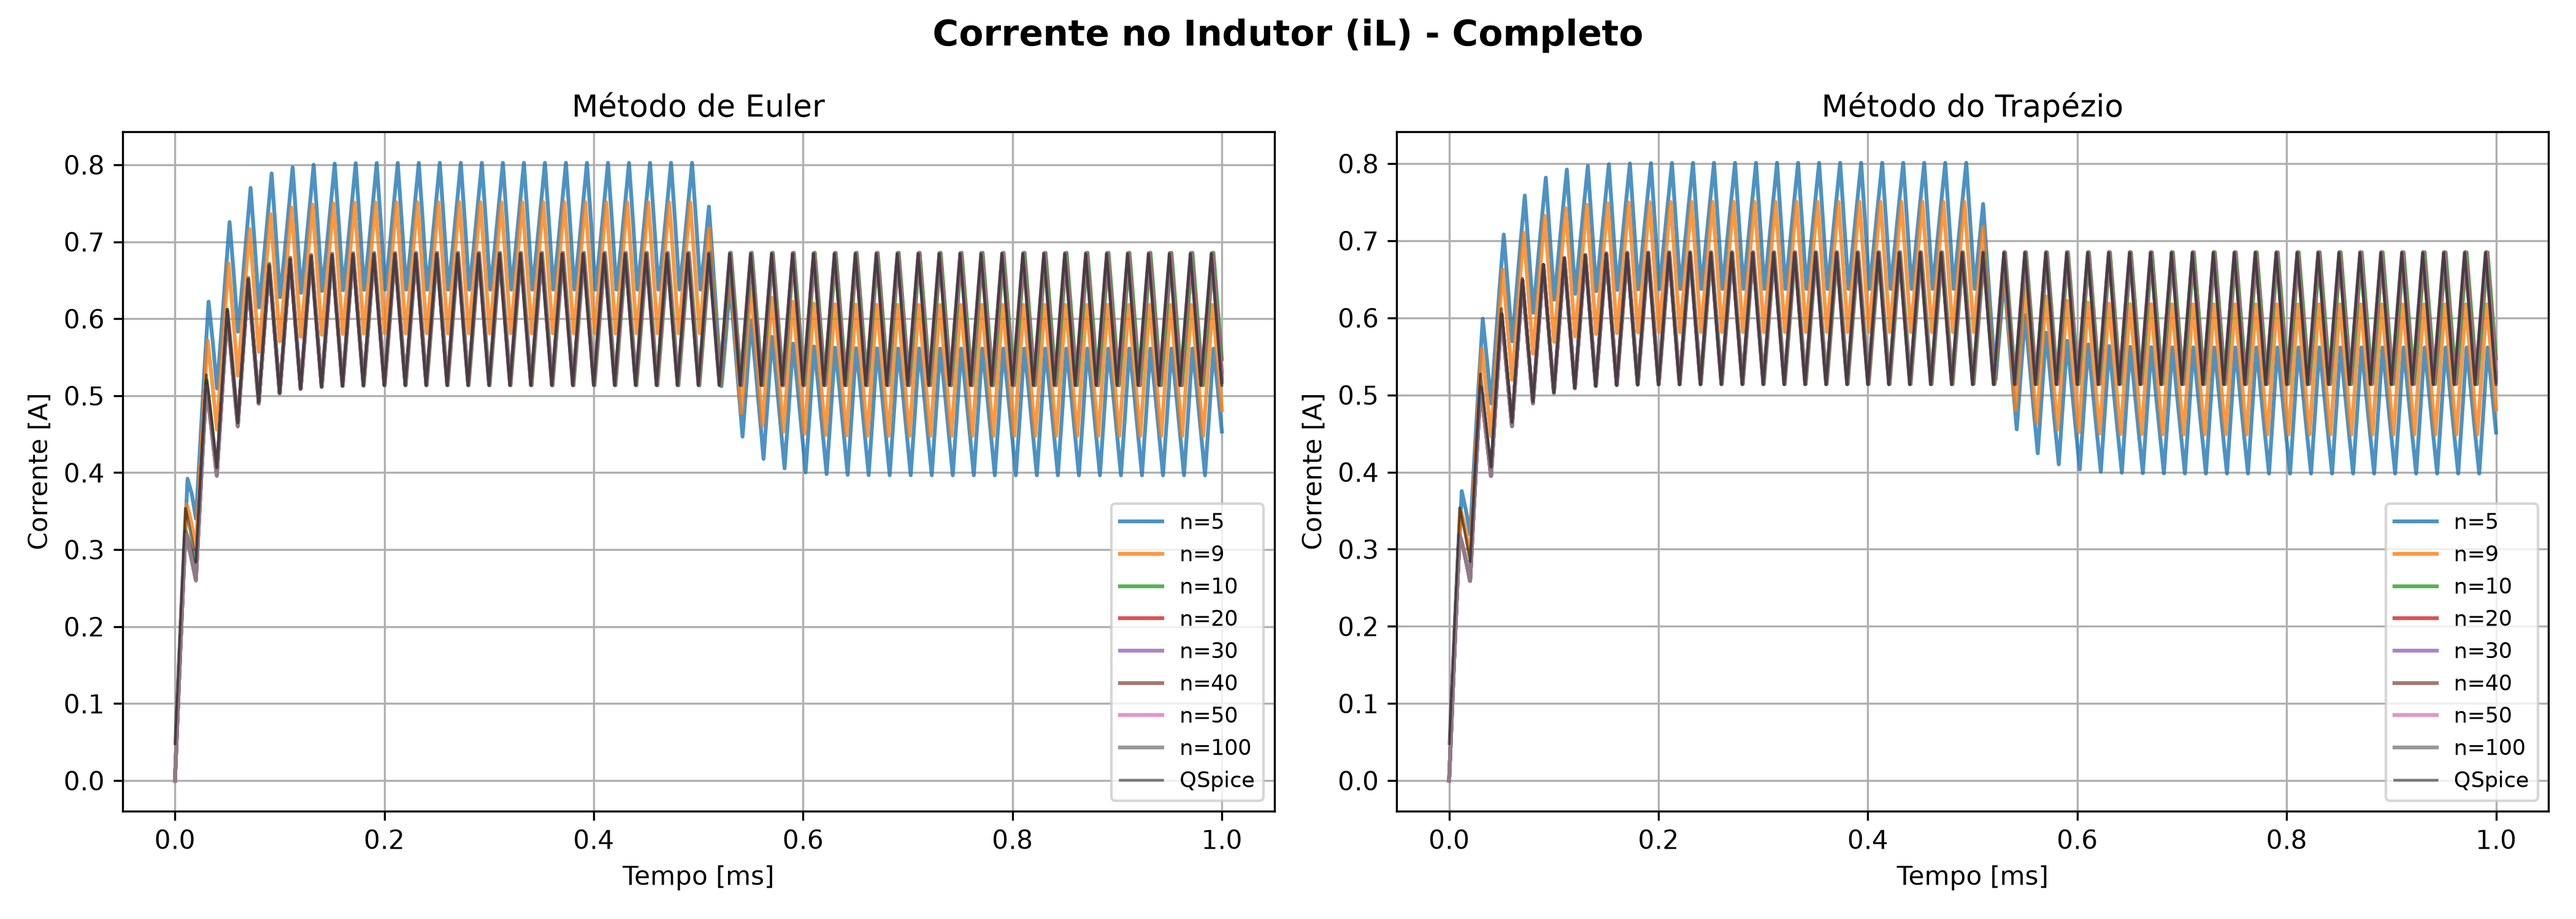
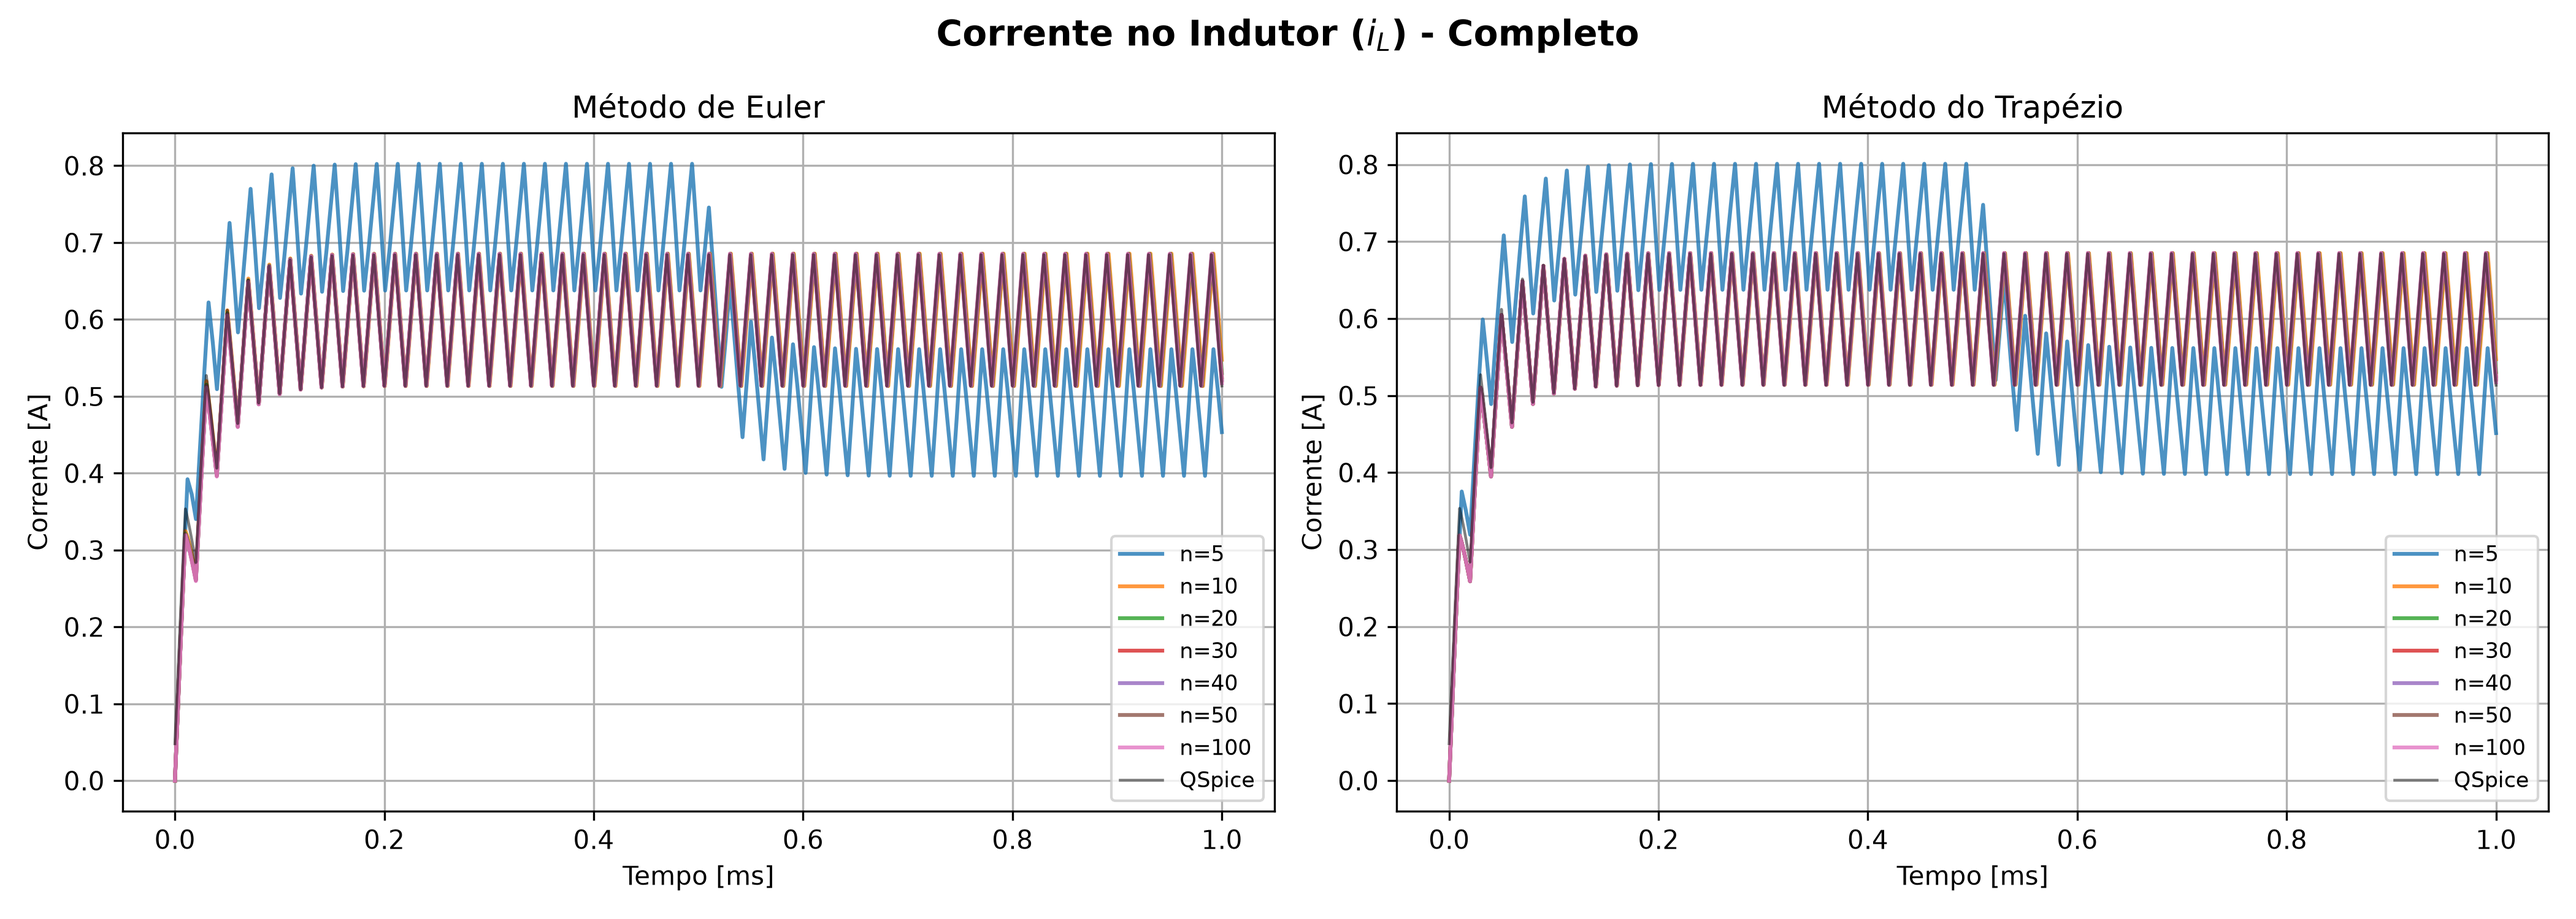
feat: imagem em regime permanente, transitorio e imagem completa foram geradas

diff --git a/ValEquacoesDiferenciaisBuck/main.py b/ValEquacoesDiferenciaisBuck/main.py
@@ -1,6 +1,8 @@
 import numpy as np
 import matplotlib.pyplot as plt
 
+DPI = 500
+
 # Dentro do arquivo buck.csv tenho o resultado de uma simulação 
 # feita com os seguintes parametros:
 # .tran 0 1m 0 20n
@@ -74,13 +76,13 @@ def buck_trapezium_discretization(n):
     return t, iL, vC
 
 def main():
+    DPI = 300 # Definindo a resolução padrão para salvar as imagens
+
     # ==========================================================
     # IMAGENS COMPLETAS (Todo o intervalo de simulação)
     # ==========================================================
-    
-    # --- IMAGEM 1: CORRENTE COMPLETA ---
     fig_iL, (ax_iL_eul, ax_iL_trap) = plt.subplots(1, 2, figsize=(14, 5))
-    fig_iL.suptitle('Corrente no Indutor (iL) - Completo', fontsize=14, fontweight='bold')
+    fig_iL.suptitle(r'Corrente no Indutor ($i_L$) - Completo', fontsize=14, fontweight='bold')
     
     ax_iL_eul.set_title('Método de Euler')
     ax_iL_eul.set_ylabel('Corrente [A]')
@@ -92,9 +94,8 @@ def main():
     ax_iL_trap.set_xlabel('Tempo [ms]')
     ax_iL_trap.grid(True)
 
-    # --- IMAGEM 2: TENSÃO COMPLETA ---
     fig_vC, (ax_vC_eul, ax_vC_trap) = plt.subplots(1, 2, figsize=(14, 5))
-    fig_vC.suptitle('Tensão no Capacitor (vC) - Completo', fontsize=14, fontweight='bold')
+    fig_vC.suptitle(r'Tensão no Capacitor ($v_C$) - Completo', fontsize=14, fontweight='bold')
     
     ax_vC_eul.set_title('Método de Euler')
     ax_vC_eul.set_ylabel('Tensão [V]')
@@ -108,13 +109,10 @@ def main():
 
 
     # ==========================================================
-    # IMAGENS COM ZOOM (0.2ms a 0.225ms)
+    # IMAGENS REGIME PERMANENTE (Zoom)
     # ==========================================================
-    
-    # --- IMAGEM 3: CORRENTE COM ZOOM ---
     fig_iL_z, (ax_iL_eul_z, ax_iL_trap_z) = plt.subplots(1, 2, figsize=(14, 5))
-    fig_iL_z.suptitle('Corrente (iL) - ZOOM (0.2ms a 0.225ms)', fontsize=14, fontweight='bold')
-    
+    fig_iL_z.suptitle(r'Corrente no Indutor ($i_L$) - Regime Permanente (0.2ms a 0.225ms)', fontsize=14, fontweight='bold')
     ax_iL_eul_z.set_title('Método de Euler (Zoom)')
     ax_iL_eul_z.set_ylabel('Corrente [A]')
     ax_iL_eul_z.set_xlabel('Tempo [ms]')
@@ -127,10 +125,8 @@ def main():
     ax_iL_trap_z.grid(True)
     ax_iL_trap_z.set_xlim(0.2, 0.225)
 
-    # --- IMAGEM 4: TENSÃO COM ZOOM ---
     fig_vC_z, (ax_vC_eul_z, ax_vC_trap_z) = plt.subplots(1, 2, figsize=(14, 5))
-    fig_vC_z.suptitle('Tensão (vC) - ZOOM (0.2ms a 0.225ms)', fontsize=14, fontweight='bold')
-    
+    fig_vC_z.suptitle(r'Tensão no Capacitor ($v_C$) - Regime Permanente (0.2ms a 0.225ms)', fontsize=14, fontweight='bold')
     ax_vC_eul_z.set_title('Método de Euler (Zoom)')
     ax_vC_eul_z.set_ylabel('Tensão [V]')
     ax_vC_eul_z.set_xlabel('Tempo [ms]')
@@ -145,64 +141,106 @@ def main():
 
 
     # ==========================================================
+    # IMAGENS REGIME TRANSITÓRIO
+    # ==========================================================
+    fig_iL_trans, (ax_iL_eul_trans, ax_iL_trap_trans) = plt.subplots(1, 2, figsize=(14, 5))
+    # Título corrigido para refletir o transitório
+    fig_iL_trans.suptitle(r'Corrente no Indutor ($i_L$) - Regime Transitório (0.0ms a 0.12ms)', fontsize=14, fontweight='bold')
+    
+    ax_iL_eul_trans.set_title('Método de Euler')
+    ax_iL_eul_trans.set_ylabel('Corrente [A]')
+    ax_iL_eul_trans.set_xlabel('Tempo [ms]')
+    ax_iL_eul_trans.grid(True)
+    ax_iL_eul_trans.set_xlim(0.0, 0.12)
+    
+    ax_iL_trap_trans.set_title('Método do Trapézio')
+    ax_iL_trap_trans.set_ylabel('Corrente [A]')
+    ax_iL_trap_trans.set_xlabel('Tempo [ms]')
+    ax_iL_trap_trans.grid(True)
+    ax_iL_trap_trans.set_xlim(0.0, 0.12)
+
+    fig_vC_trans, (ax_vC_eul_trans, ax_vC_trap_trans) = plt.subplots(1, 2, figsize=(14, 5))
+    # Título corrigido para refletir o transitório
+    fig_vC_trans.suptitle(r'Tensão no Capacitor ($v_C$) - Regime Transitório (0.0ms a 0.12ms)', fontsize=14, fontweight='bold')
+    
+    ax_vC_eul_trans.set_title('Método de Euler')
+    ax_vC_eul_trans.set_ylabel('Tensão [V]')
+    ax_vC_eul_trans.set_xlabel('Tempo [ms]')
+    ax_vC_eul_trans.grid(True)
+    ax_vC_eul_trans.set_xlim(0.0, 0.12)
+    
+    ax_vC_trap_trans.set_title('Método do Trapézio')
+    ax_vC_trap_trans.set_ylabel('Tensão [V]')
+    ax_vC_trap_trans.set_xlabel('Tempo [ms]')
+    ax_vC_trap_trans.grid(True)
+    ax_vC_trap_trans.set_xlim(0.0, 0.12)
+
+
+    # ==========================================================
     # CARREGAMENTO DOS DADOS DO QSPICE
     # ==========================================================
-    qspice_data = np.loadtxt('buck.csv', delimiter=',', skiprows=1)  # Pula a primeira linha (cabeçalho) e separa pelos vírgulas
-    t_qs = qspice_data[:, 0]  # Coluna 0: Tempo
-    vC_qs = qspice_data[:, 1] # Coluna 1: Tensão V(n02)
-    iL_qs = qspice_data[:, 2] # Coluna 2: Corrente I(L1)
+    qspice_data = np.loadtxt('buck.csv', delimiter=',', skiprows=1)
+    t_qs = qspice_data[:, 0]  
+    vC_qs = qspice_data[:, 1] 
+    iL_qs = qspice_data[:, 2] 
+
 
     # ==========================================================
     # EXECUÇÃO E PLOTAGEM
     # ==========================================================
     for n in sorted(F_MULTIPLIER):
-        # Executa as simulações matemáticas
         t_eul, iL_eul, vC_eul = buck_euler_discretization(n)
         t_trap, iL_trap, vC_trap = buck_trapezium_discretization(n)
         
-        # Plota nos gráficos COMPLETOS
+        # Plota completos
         ax_iL_eul.plot(t_eul * 1000, iL_eul, label=f'n={n}', alpha=0.8)
         ax_iL_trap.plot(t_trap * 1000, iL_trap, label=f'n={n}', alpha=0.8)
         ax_vC_eul.plot(t_eul * 1000, vC_eul, label=f'n={n}', alpha=0.8)
         ax_vC_trap.plot(t_trap * 1000, vC_trap, label=f'n={n}', alpha=0.8)
 
-        # Plota nos gráficos COM ZOOM
+        # Plota permanente (zoom)
         ax_iL_eul_z.plot(t_eul * 1000, iL_eul, label=f'n={n}', alpha=0.8)
         ax_iL_trap_z.plot(t_trap * 1000, iL_trap, label=f'n={n}', alpha=0.8)
         ax_vC_eul_z.plot(t_eul * 1000, vC_eul, label=f'n={n}', alpha=0.8)
         ax_vC_trap_z.plot(t_trap * 1000, vC_trap, label=f'n={n}', alpha=0.8)
 
+        # Plota transitório
+        ax_iL_eul_trans.plot(t_eul * 1000, iL_eul, label=f'n={n}', alpha=0.8)
+        ax_iL_trap_trans.plot(t_trap * 1000, iL_trap, label=f'n={n}', alpha=0.8)
+        ax_vC_eul_trans.plot(t_eul * 1000, vC_eul, label=f'n={n}', alpha=0.8)
+        ax_vC_trap_trans.plot(t_trap * 1000, vC_trap, label=f'n={n}', alpha=0.8)
+
     
     qs_style = {'color': 'black', 'linewidth': 1.1, 'linestyle': '-', 'alpha': 0.5, 'label': 'QSpice'}
     
-    # Corrente Completa
-    ax_iL_eul.plot(t_qs * 1000, iL_qs, **qs_style)
-    ax_iL_trap.plot(t_qs * 1000, iL_qs, **qs_style)
-    # Tensão Completa
-    ax_vC_eul.plot(t_qs * 1000, vC_qs, **qs_style)
-    ax_vC_trap.plot(t_qs * 1000, vC_qs, **qs_style)
-    # Corrente Zoom
-    ax_iL_eul_z.plot(t_qs * 1000, iL_qs, **qs_style)
-    ax_iL_trap_z.plot(t_qs * 1000, iL_qs, **qs_style)
-    # Tensão Zoom
-    ax_vC_eul_z.plot(t_qs * 1000, vC_qs, **qs_style)
-    ax_vC_trap_z.plot(t_qs * 1000, vC_qs, **qs_style)
+    # Adiciona QSpice em todos os gráficos
+    for ax_target in [ax_iL_eul, ax_iL_trap, ax_iL_eul_z, ax_iL_trap_z, ax_iL_eul_trans, ax_iL_trap_trans]:
+        ax_target.plot(t_qs * 1000, iL_qs, **qs_style)
         
-    # Adiciona as legendas
+    for ax_target in [ax_vC_eul, ax_vC_trap, ax_vC_eul_z, ax_vC_trap_z, ax_vC_eul_trans, ax_vC_trap_trans]:
+        ax_target.plot(t_qs * 1000, vC_qs, **qs_style)
+        
+    # Adiciona as legendas em todas as janelas (incluindo as novas do transitório)
     for ax in [ax_iL_eul, ax_iL_trap, ax_vC_eul, ax_vC_trap, 
-               ax_iL_eul_z, ax_iL_trap_z, ax_vC_eul_z, ax_vC_trap_z]:
-        ax.legend(fontsize='small')
+               ax_iL_eul_z, ax_iL_trap_z, ax_vC_eul_z, ax_vC_trap_z,
+               ax_iL_eul_trans, ax_iL_trap_trans, ax_vC_eul_trans, ax_vC_trap_trans]:
+        ax.legend(loc='lower right', fontsize='small')
     
-    # Ajusta o espaçamento interno
+    # Ajusta o espaçamento interno de todas as figuras
     fig_iL.tight_layout()
     fig_vC.tight_layout()
     fig_iL_z.tight_layout()
     fig_vC_z.tight_layout()
+    fig_iL_trans.tight_layout()
+    fig_vC_trans.tight_layout()
     
-    fig_iL.savefig('corrente_completa.png', dpi=300)
-    fig_vC.savefig('tensao_completa.png', dpi=300)
-    fig_iL_z.savefig('corrente_zoom.png', dpi=300)
-    fig_vC_z.savefig('tensao_zoom.png', dpi=300)
+    # Salvando as imagens
+    fig_iL.savefig('corrente_completa.png', dpi=DPI)
+    fig_vC.savefig('tensao_completa.png', dpi=DPI)
+    fig_iL_z.savefig('corrente_permanente.png', dpi=DPI)
+    fig_vC_z.savefig('tensao_permanente.png', dpi=DPI)
+    fig_iL_trans.savefig('corrente_trans.png', dpi=DPI)
+    fig_vC_trans.savefig('tensao_trans.png', dpi=DPI)
 
     plt.close('all')
 
